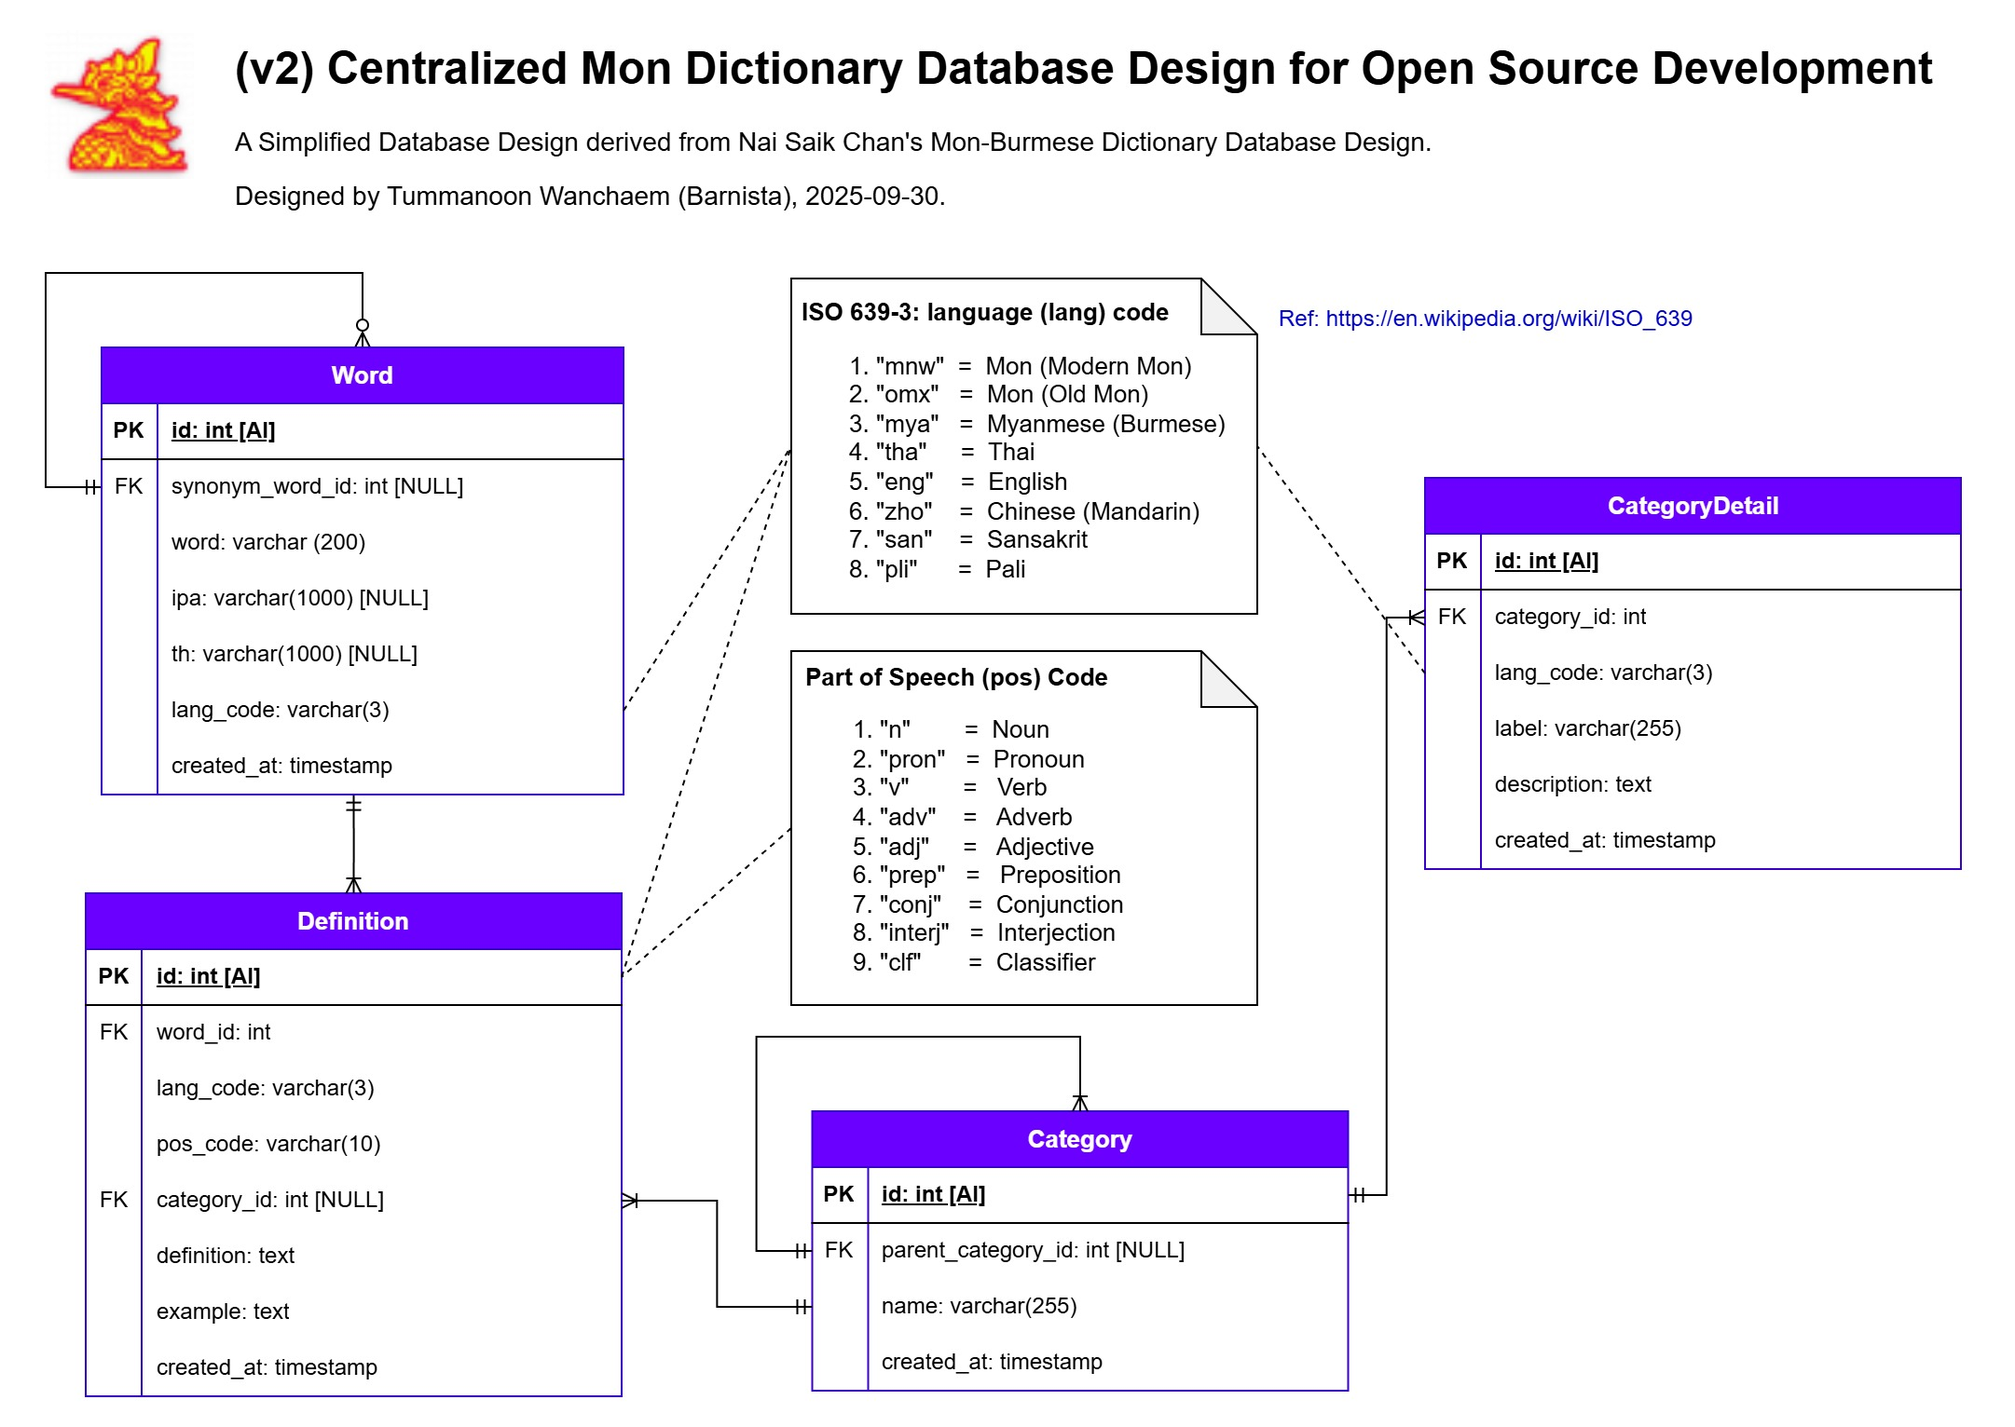
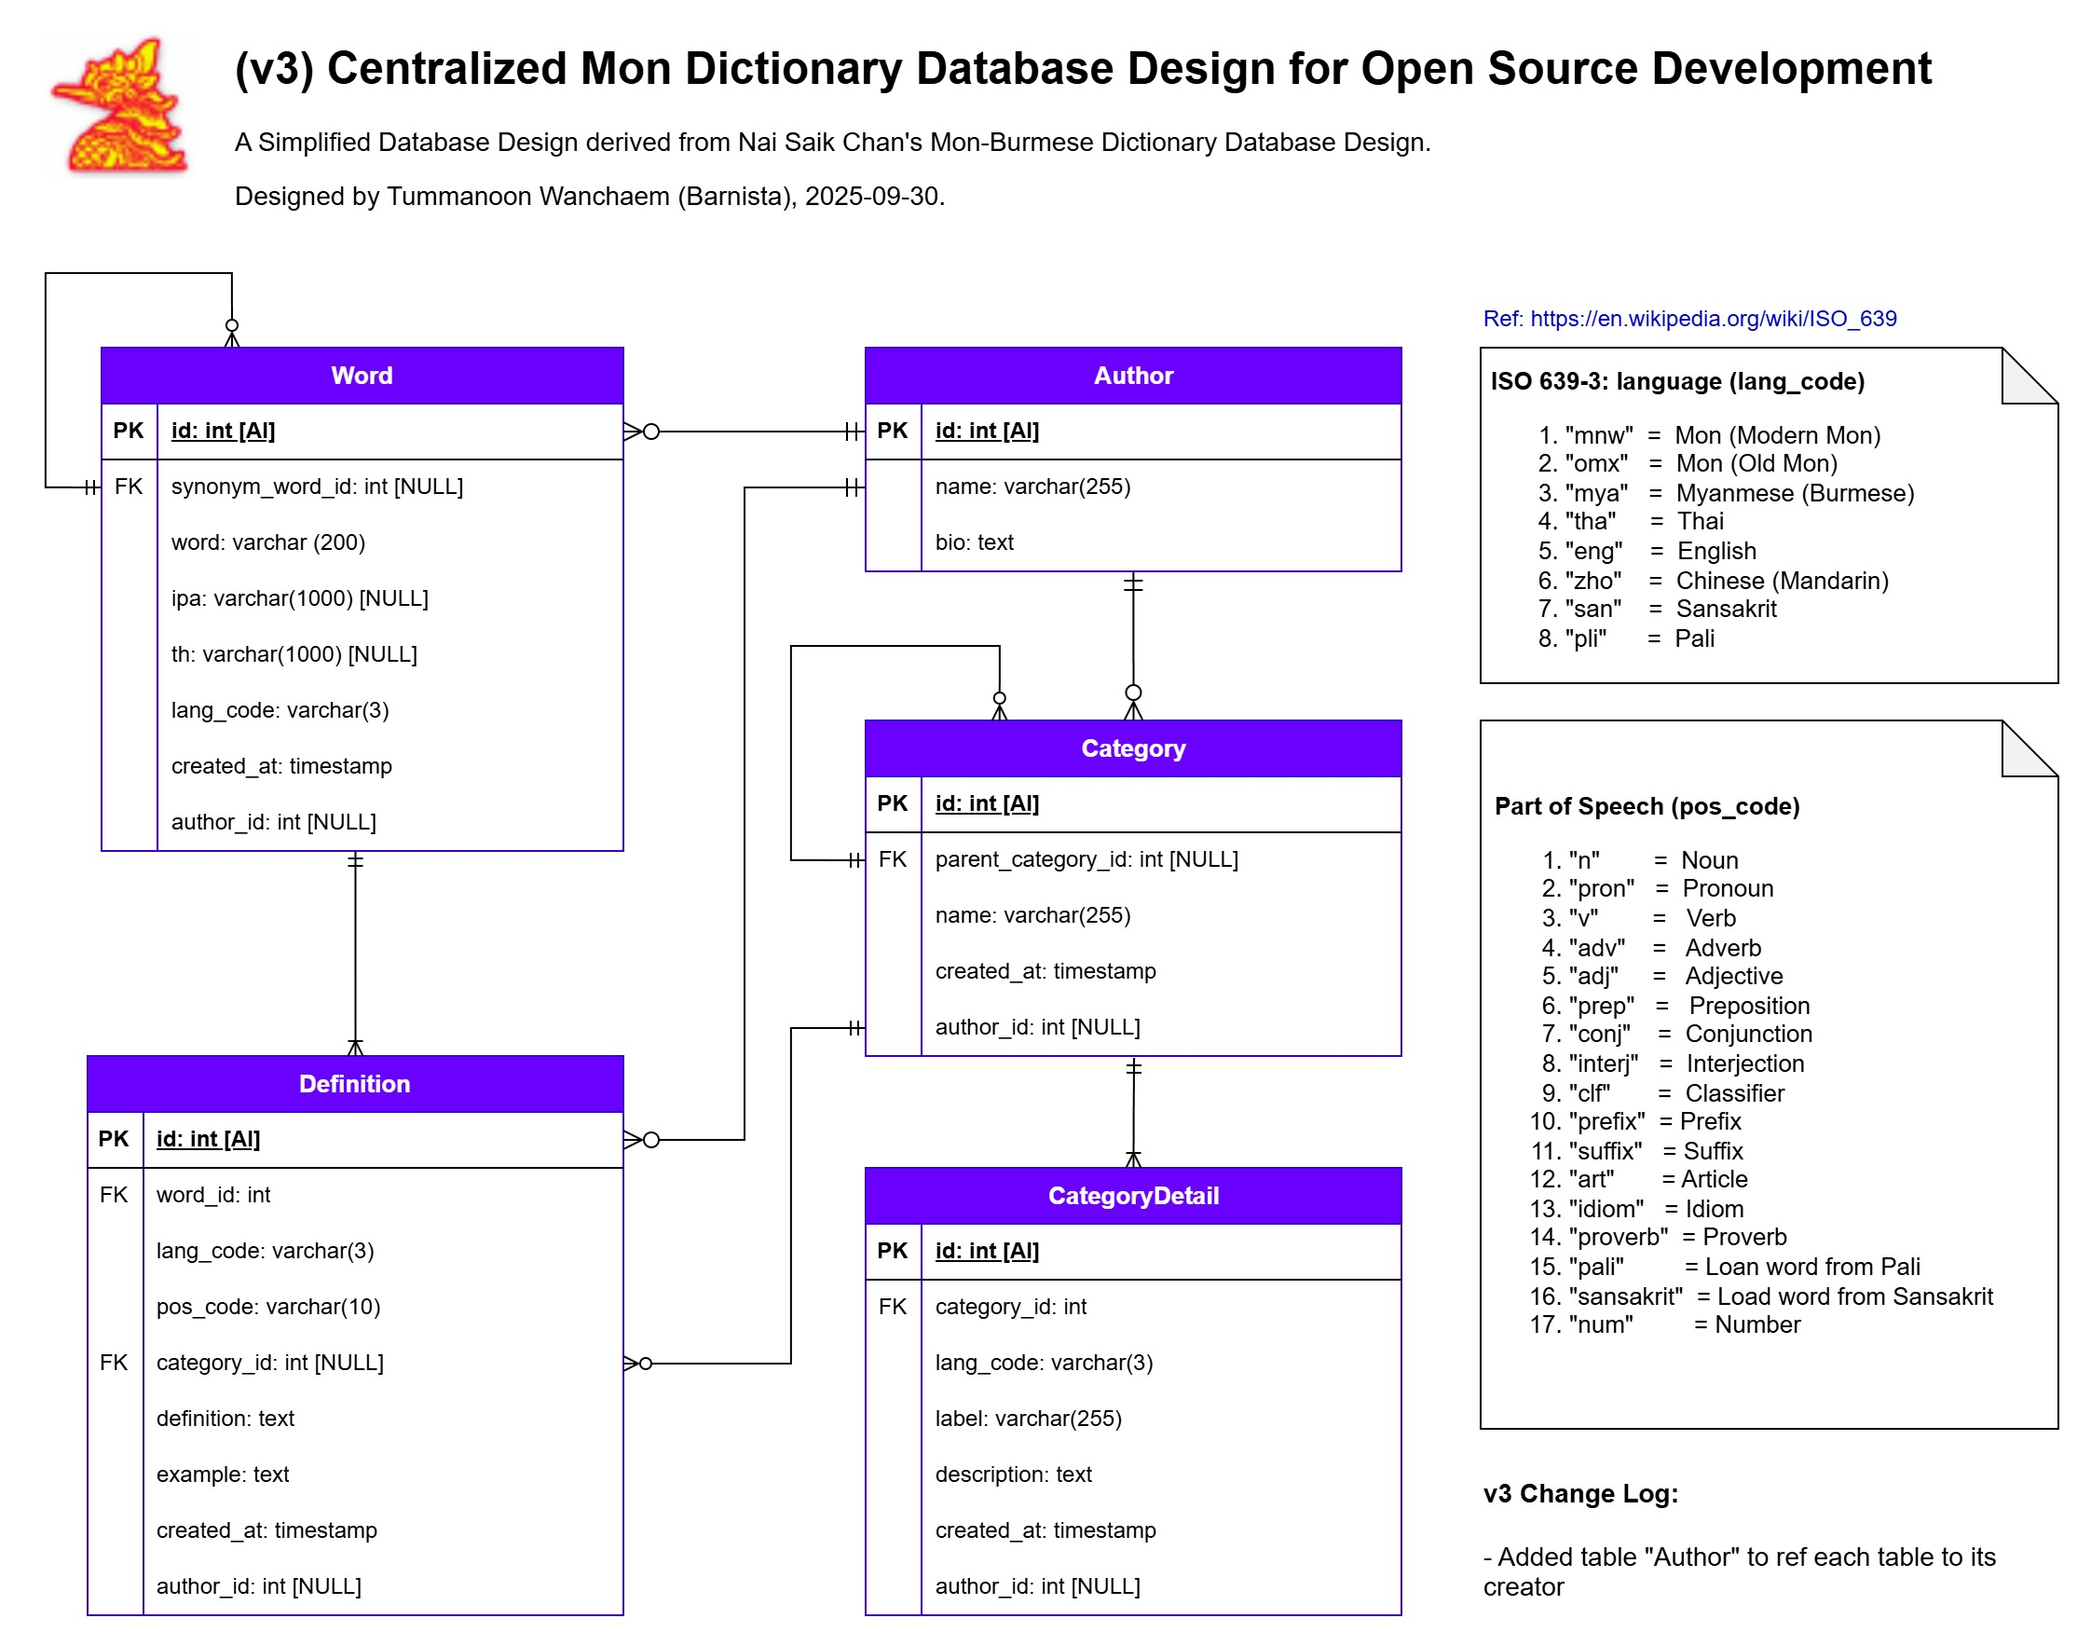
v1.7
- fixed minor issues
- added 3 new SQL templates
- updated database design diagram to v3

diff --git a/docs/index.html b/docs/index.html
@@ -89,13 +89,13 @@
                 <div class="offcanvas-body">
                     <ul class="navbar-nav justify-content-end flex-grow-1 pe-3">
                         <li class="nav-item">
-                            <a class="nav-link active" aria-current="page" href="#">Demo</a>
+                            <a class="nav-link active" aria-current="page" href="#">Docs & Demo</a>
                         </li>
                         <li class="nav-item">
                             <a class="nav-link" href="https://github.com/Barnista/The-Mon-Language-Dictionary-Database"
                                 target="_blank">𖦥 GitHub</a>
                         </li>
-                        <li class="nav-item dropdown">
+                        <!--<li class="nav-item dropdown">
                             <a class="nav-link dropdown-toggle" href="#" role="button" data-bs-toggle="dropdown"
                                 aria-expanded="false">
                                 Dropdown
@@ -108,12 +108,12 @@
                                 </li>
                                 <li><a class="dropdown-item" href="#">Something else here</a></li>
                             </ul>
-                        </li>
+                        </li>-->
                     </ul>
-                    <form class="d-flex mt-3" role="search">
+                    <!--<form class="d-flex mt-3" role="search">
                         <input class="form-control me-2" type="search" placeholder="Search" aria-label="Search" />
                         <button class="btn btn-success" type="submit">Search</button>
-                    </form>
+                    </form>-->
                 </div>
             </div>
         </div>
@@ -122,34 +122,39 @@
     <div class="mt-5 p-4">
         <div class="row mt-4">
             <div class="col-12 col-md-6 col-xl-5 mb-3">
-                <h1>Documentation & Demo</h1>
+                <h1>Docs & Demo</h1>
                 <p class="muted">Interactive demo showing how to manage an open-source & centralized dictionary database
                     of
                     The Mon Language using SQL commands to create,
                     read, update, and delete (CRUD). </p>
                 <p>This demo has also integrated SQL.js to run SQLite engine compiled into
                     WebAssembly aka. WASM. (Can be used as offline database).</p>
-                <div class="text-end">
-                    <a href="https://github.com/Barnista/The-Mon-Language-Dictionary-Database" class="btn btn-outline-light" target="_blank">🤖 Explore Docs (GitHub)</a>
+                <div class="row">
+                    <div class="col-12 col-md-12 col-lg-4 text-center mb-3">
+                        <img src="./assets/logo128.png" style="max-width: 128px; max-height: 128px;">
+                        <small class="d-block text-muted">Logo 128x128</small>
+                    </div>
+                    <div class="col-12 col-md-12 col-lg-8 mb-3">
+                        <h5>Version 1.7</h5>
+                        <ul>
+                            <li>
+                                🛢 Support SQLite and MySQL:
+                                <a href="https://github.com/Barnista/The-Mon-Language-Dictionary-Database/tree/main/sql"
+                                    target="_blank">Download (26 mb.)</a>
+                            </li>
+                            <li>
+                                🔤 25,361 words. 💬 80,866 definitions.
+                            </li>
+                            <li>
+                                🌍 Support Mon-English, Mon-Thai, & Mon-Burmese.
+                            </li>
+                        </ul>
+                        <div class="">
+                            <a href="https://github.com/Barnista/The-Mon-Language-Dictionary-Database"
+                                class="btn btn-secondary shadow" target="_blank">🤖 Fork on GitHub</a>
+                        </div>
+                    </div>
                 </div>
-                <h5>Version 1.6</h5>
-                <ul>
-                    <li>
-                        💾 SQLite Database size: 26 MB.
-                    </li>
-                    <li>
-                        🛢 MySQL Database size: 25.8 MB.
-                    </li>
-                    <li>
-                        🔤 25,361 words.
-                    </li>
-                    <li>
-                        💬 80,866 definitions.
-                    </li>
-                    <li>
-                        🌍 Support 3 translations;<br>Mon-English, มอญ-ไทย, မွန်-မြန်မာ.
-                    </li>
-                </ul>
             </div>
             <div class="col-12 col-md-6 col-xl-7 mb-3">
                 <div class="row">
@@ -191,26 +196,38 @@
                         <div class="controls mt-2">
                             <input type="radio" class="btn-check" name="options-query" id="query8" autocomplete="off">
                             <label class="btn btn-outline-warning shadow mb-2" for="query8">
-                                🌟 Search for Word and show its Definition and Author.
+                                🌟 Word that includes "တ္ၚဲ"
                             </label>
                             <input type="radio" class="btn-check" name="options-query" id="query9" autocomplete="off">
                             <label class="btn btn-outline-warning shadow mb-2" for="query9">
-                                🍚 Search for Word that has its Definition start or end with "rice".
+                                🍚 Word that has its Definition about "rice"
                             </label>
                             <input type="radio" class="btn-check" name="options-query" id="query10" autocomplete="off">
                             <label class="btn btn-outline-warning shadow mb-2" for="query10">
-                                🔗 Look for Word that has its synonym.
+                                🔗 Word that has its synonym
                             </label>
                             <input type="radio" class="btn-check" name="options-query" id="query11" autocomplete="off">
                             <label class="btn btn-outline-warning shadow mb-2" for="query11">
-                                ⚧ Look for Word that is pronoun.
+                                ⚧ Pronoun words
+                            </label>
+                            <input type="radio" class="btn-check" name="options-query" id="query12" autocomplete="off">
+                            <label class="btn btn-outline-warning shadow mb-2" for="query12">
+                                🍋 Definition that's in Category "Fruits"
+                            </label>
+                            <input type="radio" class="btn-check" name="options-query" id="query13" autocomplete="off">
+                            <label class="btn btn-outline-warning shadow mb-2" for="query13">
+                                🏛 Definition that starts with "Ministry"
+                            </label>
+                            <input type="radio" class="btn-check" name="options-query" id="query14" autocomplete="off">
+                            <label class="btn btn-outline-warning shadow mb-2" for="query14">
+                                ℹ Summary About Dictionary Compilers
                             </label>
                         </div>
                     </div>
                 </div>
             </div>
         </div>
-        <div class="mt-3">
+        <div class="mt-5">
             <h3>⚙ Edit SQL Command</h3>
             <div id="sql-container" onclick="activateEditor(event)">
                 <code id="sql-hilight" class="language-sql vscode-sql p-3 shadow" spellcheck="true"
@@ -234,7 +251,7 @@
             </tbody>
         </table>
     </div>
-    <div class="container pt-4">
+    <div class="p-4">
         <h3>Database Design</h3>
         <p>
             The Mon Language dictionary database design has been simplified and redesigned by Barnista; derived from Nai
@@ -277,12 +294,10 @@
                 <div class="col-12 col-md-6 col-lg-5 col-xl-4 mb-3">
                     <h5>Contributors:</h5>
                     <div class="list-group shadow">
-                        <a href="#"
-                            target="_blank" class="list-group-item list-group-item-action">
+                        <a href="#" target="_blank" class="list-group-item list-group-item-action">
                             👨🏻 <strong>Nai Sac Lun</strong><br>Mon-Burmese Dictionary Compiler.
                         </a>
-                        <a href="#" target="_blank"
-                            class="list-group-item list-group-item-action">
+                        <a href="#" target="_blank" class="list-group-item list-group-item-action">
                             👨🦲 <strong>Mahajaroon’s Committee</strong><br>Mon-Thai Dictionary Compiler.
                         </a>
                         <a href="https://github.com/Barnista" target="_blank"
@@ -307,7 +322,7 @@
                     <p>
                         The Mon Language Dictionary Database
                         <br>
-                        Open Source: v1.6
+                        Open Source: v1.7
                     </p>
                     <p>
                         MIT License <br>

diff --git a/docs/services/db/query.js b/docs/services/db/query.js
@@ -418,8 +418,9 @@ const DB_QUERY_INSTANTS = {
         JOIN 
             Author ON Definition.author_id = Author.id
         WHERE 
-            Definition.definition LIKE 'rice%' OR
-            Definition.definition LIKE '%rice'
+            Definition.definition LIKE '%rice%' OR
+            Definition.definition LIKE '%ข้าว%' OR
+            Definition.definition LIKE '%ထမင်း%'
         ORDER BY
             Word.word ASC
         LIMIT 1000;
@@ -465,4 +466,73 @@ const DB_QUERY_INSTANTS = {
             Word.word ASC
         LIMIT 1000;
     `,
+    SELECT_Definition_JOIN_Category_WHERE: `
+        SELECT 
+            Category.name as 'Category',
+            Word.word as 'Mon Word',
+            Definition.definition as 'Definition',
+            Definition.lang_code as 'Language',
+            Definition.pos_code as 'Part of Speech',
+            Author.name as 'Author'
+        FROM 
+            Definition
+        JOIN 
+            Word ON Word.id = Definition.word_id
+        JOIN
+            Category ON Category.id = Definition.category_id
+        JOIN 
+            Author ON Definition.author_id = Author.id
+        WHERE 
+            Definition.category_id IS NOT NULL AND
+            Category.name LIKE '%Fruits%'
+        ORDER BY
+            Word.word ASC
+        LIMIT 1000;
+    `,
+    SELECT_Definition_JOIN_Word_WHERE_Definition: `
+        SELECT 
+            Word.word as 'Mon Word',
+            Word.ipa as 'IPA',
+            Word.th as 'TH',
+            Definition.definition as 'Definition',
+            Definition.lang_code as 'Language',
+            Definition.pos_code as 'Part of Speech',
+            Author.name as 'Author'
+        FROM 
+            Definition
+        JOIN 
+            Word ON Word.id = Definition.word_id
+        JOIN 
+            Author ON Definition.author_id = Author.id
+        WHERE 
+            Definition.definition LIKE 'Ministry%'
+        ORDER BY
+            Word.word ASC
+        LIMIT 1000;
+    `,
+    SELECT_Author_Summary: `
+        SELECT 
+            A1.name as 'Name',
+            A1.bio as 'Bio',
+            (SELECT COUNT(*) 
+                FROM 
+                    Word 
+                JOIN 
+                    Author ON Word.author_id = Author.id 
+                WHERE 
+                    Author.name LIKE CONCAT('%', A1.name, '%')
+            ) as 'Word Compiled',
+            (SELECT COUNT(*) 
+                FROM 
+                    Definition 
+                JOIN 
+                    Author ON Definition.author_id = Author.id 
+                WHERE 
+                    Author.name LIKE CONCAT('%', A1.name, '%')
+            ) as 'Definition Compiled' 
+        FROM
+            Author as A1 
+        WHERE
+            A1.id = 1 OR A1.id = 2; 
+    `
 }

diff --git a/docs/app.js b/docs/app.js
@@ -15,6 +15,9 @@ const radio_query_8 = document.getElementById('query8');
 const radio_query_9 = document.getElementById('query9');
 const radio_query_10 = document.getElementById('query10');
 const radio_query_11 = document.getElementById('query11');
+const radio_query_12 = document.getElementById('query12');
+const radio_query_13 = document.getElementById('query13');
+const radio_query_14 = document.getElementById('query14');
 
 let h_output = document.getElementById('h-output');
 let data_div = document.getElementById('data-div');
@@ -210,6 +213,27 @@ function initGUI(engine, db) {
         }
     });
 
+    radio_query_12.addEventListener('click', function (event) {
+        if (event.target && event.target.matches("input[type='radio']")) {
+            // switch to selected table
+            selectQuery(DB_QUERY_INSTANTS.SELECT_Definition_JOIN_Category_WHERE);
+        }
+    });
+
+    radio_query_13.addEventListener('click', function (event) {
+        if (event.target && event.target.matches("input[type='radio']")) {
+            // switch to selected table
+            selectQuery(DB_QUERY_INSTANTS.SELECT_Definition_JOIN_Word_WHERE_Definition);
+        }
+    });
+
+    radio_query_14.addEventListener('click', function (event) {
+        if (event.target && event.target.matches("input[type='radio']")) {
+            // switch to selected table
+            selectQuery(DB_QUERY_INSTANTS.SELECT_Author_Summary);
+        }
+    });
+
     btn_run.addEventListener('click', function (event) {
         if (built_query) {
             console.log(built_query);
@@ -304,7 +328,7 @@ function displayResult(table_name, columns, values, isScrollResult) {
     });
 
     // Scrolls the target element into view, optionally with smooth animation.
-    if(isScrollResult) h_output.scrollIntoView({ behavior: 'smooth' });
+    if (isScrollResult) h_output.scrollIntoView({ behavior: 'smooth' });
 }
 
 function displayNoResult() {

diff --git a/docs/assets/database/author_1.js b/docs/assets/database/author_1.js
@@ -1,6 +1,6 @@
 const DB_DATA_AUTHOR_1 = `
 INSERT INTO Author (id, name, bio) VALUES
-(1,	'Nai Sac Lun',	'Mon-Burmese Dictionar Compiler.'),
+(1,	'Nai Sac Lun',	'Mon-Burmese Dictionary Compiler.'),
 (2,	'Mahajaroon’s Committee',	'Mon-Thai Dictionary Compiler.'),
 (3,	'Nai Sac Lun and Mahajaroon’s Committee',	'Nai Sac Lun and Mahajaroon’s Committee combination.'),
 (4,	'Barnista',	'Project Lead, The Mon Language Dictionary Database.'),

diff --git a/app-py/a0-create-authors.py b/app-py/a0-create-authors.py
@@ -9,7 +9,7 @@ xauthor_crud.connect()
 author1_id = xauthor_crud.create_with_id(
     id=1,
     name='Nai Sac Lun',
-    bio='Mon-Burmese Dictionar Compiler.',
+    bio='Mon-Burmese Dictionary Compiler.',
 )
 
 author2_id = xauthor_crud.create_with_id(
